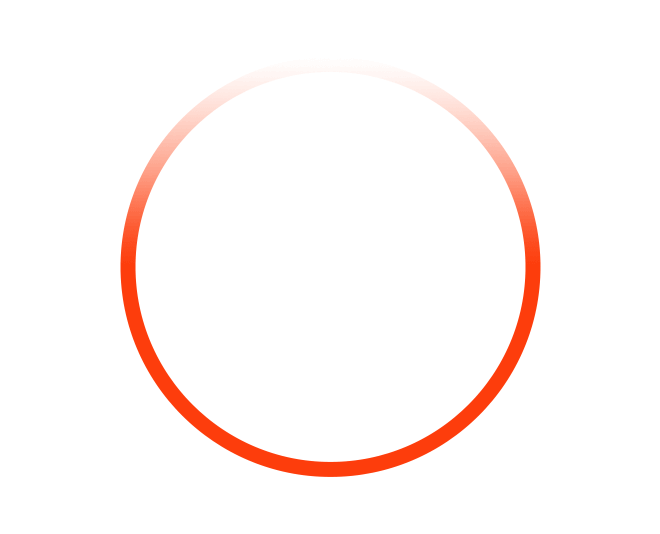
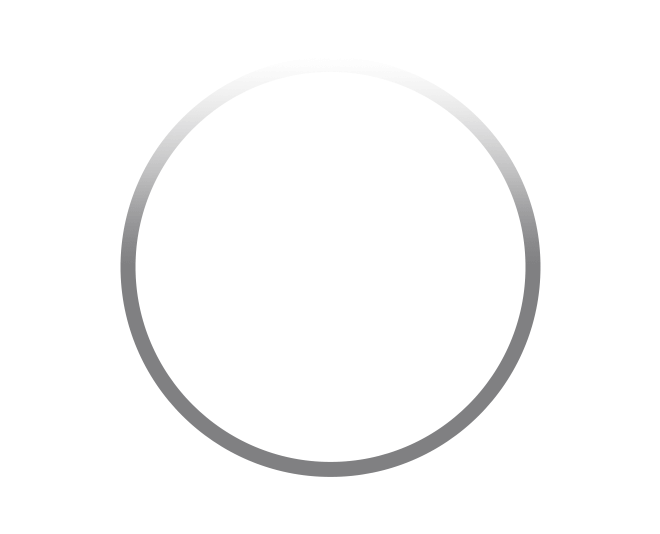
last updates

Changed region(s): [[0.1818, 0.2097, 0.8182, 0.8989]]

diff --git a/index.html b/index.html
@@ -5,7 +5,7 @@
   <meta charset="UTF-8">
   <meta http-equiv="X-UA-Compatible" content="IE=edge">
   <meta name="viewport" content="width=device-width, initial-scale=1.0">
-  <title>Fitlife - Work Hard To Get Better Life</title>
+  <title>AG Fitness</title>
 
   <!-- 
     - favicon
@@ -49,7 +49,7 @@
       <a href="#" class="logo">
         <ion-icon name="barbell-sharp" aria-hidden="true"></ion-icon>
 
-        <span class="span">Fitlife</span>
+        <span class="span">AG Fitenss</span>
       </a>
 
       <nav class="navbar" data-navbar>
@@ -113,13 +113,13 @@
           <div class="hero-content">
 
             <p class="hero-subtitle">
-              <strong class="strong">The Best</strong>Fitness Club
+              <strong class="strong">Fit today</strong>Stronger tomorrow
             </p>
 
             <h1 class="h1 hero-title">Work Hard To Get Better Life</h1>
 
             <p class="section-text">
-              Duis mollis felis quis libero dictum vehicula. Duis dictum lorem mi, a faucibus nisi eleifend eu.
+              We understand what you are going through and we know exactly what you need to do to start and achieve your fitness goal. We know the struggles, the challenges and the solutions
             </p>
 
             <a href="#" class="btn btn-primary">Get Started</a>
@@ -172,17 +172,14 @@
 
             <p class="section-subtitle">About Us</p>
 
-            <h2 class="h2 section-title">Welcome To Our Fitness Gym</h2>
+            <h2 class="h2 section-title">AG Fitness : Unlock Your Potential, Transform Your Life!</h2>
 
             <p class="section-text">
-              Nam ut hendrerit leo. Aenean vel ipsum nunc. Curabitur in tellus vitae nisi aliquet dapibus non et erat.
-              Pellentesque
-              porta sapien non accumsan dignissim curabitur sagittis nulla sit amet dolor feugiat.
+              Welcome to AG Fitness, where your health and wellness are our top priority! We're committed to supporting you on your fitness journey with customized training programs and expert nutrition advice. Our team of certified trainers and nutritionists is passionate about helping you lead a healthier, happier life.
             </p>
 
             <p class="section-text">
-              Integer placerat vitae metus posuere tincidunt. Nullam suscipit ante ac aliquet viverra vestibulum ante
-              ipsum primis.
+              With extensive experience in the fitness industry, we know that every individual has unique goals. That’s why we design our programs to fit your personal needs and ambitions. Whether you’re looking to lose weight, build muscle, boost your endurance, or embrace a healthier lifestyle, AG Fitness is here to support you every step of the way.
             </p>
 
             <div class="wrapper">
@@ -194,7 +191,7 @@
                 </figure>
 
                 <div>
-                  <h3 class="h3 coach-name">Denis Robinson</h3>
+                  <h3 class="h3 coach-name">AMIR</h3>
 
                   <p class="coach-title">Our Coach</p>
                 </div>
@@ -439,17 +436,17 @@
       <section class="section blog" id="blog" aria-label="blog">
         <div class="container">
 
-          <p class="section-subtitle">Our News</p>
+          <p class="section-subtitle">Our Experts</p>
 
-          <h2 class="h2 section-title text-center">Latest Blog Feed</h2>
+          <h2 class="h2 section-title text-center">Meet Our Team</h2>
 
           <ul class="blog-list has-scrollbar">
 
             <li class="scrollbar-item">
               <div class="blog-card">
 
-                <div class="card-banner img-holder" style="--width: 440; --height: 270;">
-                  <img src="./assets/images/blog-1.jpg" width="440" height="270" loading="lazy"
+                <div class="card-banner img-holder" style="--width: 440; --height: 280px;">
+                  <img src="./assets/images/amir.png" width="440" height="280px" loading="lazy"
                     alt="Going to the gym for the first time" class="img-cover">
 
                   <time class="card-meta" datetime="2022-07-07">7 July 2022</time>
@@ -476,8 +473,8 @@
             <li class="scrollbar-item">
               <div class="blog-card">
 
-                <div class="card-banner img-holder" style="--width: 440; --height: 270;">
-                  <img src="./assets/images/blog-2.jpg" width="440" height="270" loading="lazy"
+                <div class="card-banner img-holder" style="--width: 440; --height: 280px;">
+                  <img src="./assets/images/rada.png" width="440" height="280px" loading="lazy"
                     alt="Parturient accumsan cacus pulvinar magna" class="img-cover">
 
                   <time class="card-meta" datetime="2022-07-07">7 July 2022</time>
@@ -504,8 +501,8 @@
             <li class="scrollbar-item">
               <div class="blog-card">
 
-                <div class="card-banner img-holder" style="--width: 440; --height: 270;">
-                  <img src="./assets/images/blog-3.jpg" width="440" height="270" loading="lazy"
+                <div class="card-banner img-holder" style="--width: 440; --height: 280px;">
+                  <img src="./assets/images/ilhan.png" width="440" height="280px" loading="lazy"
                     alt="Risus purus namien parturient accumsan cacus" class="img-cover">
 
                   <time class="card-meta" datetime="2022-07-07">7 July 2022</time>
@@ -534,6 +531,9 @@
         </div>
       </section>
 
+
+
+
     </article>
   </main>
 
@@ -555,7 +555,7 @@
           <a href="#" class="logo">
             <ion-icon name="barbell-sharp" aria-hidden="true"></ion-icon>
 
-            <span class="span">Fitlife</span>
+            <span class="span">AG Fitenss</span>
           </a>
 
           <p class="footer-brand-text">
@@ -648,9 +648,9 @@
             </div>
 
             <div>
-              <a href="mailto:info@fitlife.com" class="footer-link">info@fitlife.com</a>
+              <a href="mailto:info@AG Fitenss.com" class="footer-link">info@AG Fitenss.com</a>
 
-              <a href="mailto:services@fitlife.com" class="footer-link">services@fitlife.com</a>
+              <a href="mailto:services@AG Fitenss.com" class="footer-link">services@AG Fitenss.com</a>
             </div>
           </li>
 
@@ -706,7 +706,7 @@
       <div class="container">
 
         <p class="copyright">
-          &copy; 2022 Fitlife. All Rights Reserved By <a href="#" class="copyright-link">MarouaneHaddads.</a>
+          &copy; 2022 AG Fitenss. All Rights Reserved By <a href="#" class="copyright-link">MarouaneHaddads.</a>
         </p>
 
         <ul class="footer-bottom-list">

diff --git a/assets/css/style.css b/assets/css/style.css
@@ -20,21 +20,22 @@
    * colors
    */
 
-  --rich-black-fogra-29_50: hsl(210, 26%, 11%, 0.5);
-  --rich-black-fogra-29-1: hsl(210, 26%, 11%);
-  --rich-black-fogra-29-2: hsl(210, 50%, 4%);
-  --silver-metallic: hsl(212, 9%, 67%);
-  --coquelicot_20: hsla(12, 98%, 52%, 0.2);
-  --coquelicot_10: hsla(12, 98%, 52%, 0.1);
-  --sonic-silver: hsl(0, 0%, 47%);
-  --cadet-gray: hsl(214, 15%, 62%);
-  --light-gray: hsl(0, 0%, 80%);
-  --coquelicot: hsl(12, 98%, 52%);
-  --gainsboro: hsl(0, 0%, 88%);
-  --white_20: hsl(0, 0%, 100%, 0.2);
-  --white_10: hsl(0, 0%, 100%, 0.1);
-  --black_10: hsl(0, 0%, 0%, 0.1);
-  --white: hsl(0, 0%, 100%);
+   --rich-black-fogra-29_50: hsl(254, 41%, 12%, 0.5);
+   --rich-black-fogra-29-1: hsl(254, 41%, 12%);
+   --rich-black-fogra-29-2: hsl(210, 50%, 4%);
+   --silver-metallic: hsl(240, 9%, 67%);
+   --coquelicot_20: hsla(263, 98%, 52%, 0.2);
+   --coquelicot_10: hsla(261, 98%, 52%, 0.1);
+   --sonic-silver: hsl(0, 0%, 47%);
+   --cadet-gray: hsl(214, 15%, 62%);
+   --light-gray: hsl(0, 0%, 80%);
+   --coquelicot: hsl(237, 97%, 74%);
+   --gainsboro: hsl(0, 0%, 88%);
+   --white_20: hsla(0, 0%, 100%, 0.2);
+   --white_10: hsla(0, 0%, 100%, 0.1);
+   --black_10: hsla(0, 0%, 0%, 0.1);
+   --white: hsl(0, 0%, 100%);
+   --background-color: hsl(227, 100%, 96%);
 
   /**
    * typography
@@ -466,7 +467,6 @@ body {
   left: 0;
   width: 100%;
   height: 240px;
-  background-color: var(--coquelicot);
   z-index: -1;
 }
 
